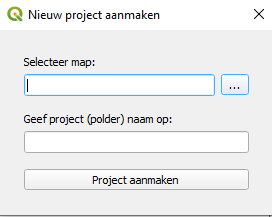
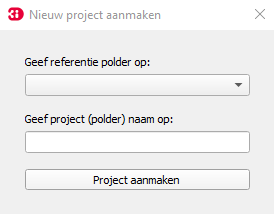
Gebruikershandleiding
Aanvullen gebruikershandleiding + toevoegen model settings

diff --git a/docs/md_files/usage.md b/docs/md_files/usage.md
@@ -95,10 +95,12 @@ Als er nog geen modelstaten en testberekeningen uitgevoerd zijn, kunnen de volge
 
 2. Hierna wordt het volgende scherm weergegeven:
 ![](../images/usage/load_modelsplitter_legend.PNG)
-De modelsplitter geeft de mogelijkheid om een aantal modelstaten te genereren, zoals in het vak met de ``1`` is te zien. De modelstaten voor de te genereren modellen staan automatisch in het rechtervak met daarboven ``Enabled``. In het rechtervak laat je de modelstaten staan waarvan je een model wil laten maken. Als je een bepaalde modelstaat niet nodig hebt, kun je deze naar het linkervak slepen met daarboven ``Disabled``.  
+Als er een Excel met model instellingen aanwezig is in het pad ``C:\Users\{gebruiker}\Documents\3Di\polder_Bart\02_schematisation``, dan zullen een aantal opties tevoorschijn komen (zoals in vak 1 is te zien). Als er nog geen Excel aanwezig is in het voorgenoemde pad, klik dan [hier](needed_data.md#model-instellingen) om de opbouw van de Excel te bekijken. De modelsplitter geeft de mogelijkheid om een aantal modelstaten te genereren, zoals in het vak met de ``1`` is te zien. De modelstaten voor de te genereren modellen staan automatisch in het rechtervak met daarboven ``Enabled``. In het rechtervak laat je de modelstaten staan waarvan je een model wil laten maken. Als je een bepaalde modelstaat niet nodig hebt, kun je deze naar het linkervak slepen met daarboven ``Disabled``.  
 3. Druk op ``Run: Model Splitter`` (2) om de modelsta(a)t(en) die onder ``Enabled`` staan te genereren
 4. Geef een ``Commit message`` mee (3)
 5. Upload de modelsta(a)t(en) door op ``Upload modelversion(s)`` te klikken (4)
+
+`{gebruiker}` is de naam van de Windows-gebruiker.
 
 ## 6. Berekeningen uitvoeren
 Nadat stap 5 is uitgevoerd, kunnen (test)berekeningen uitgevoerd gaan worden. Hieronder wordt toegelicht hoe een (test)bereking gestart kan worden:
@@ -113,13 +115,14 @@ Nadat stap 5 is uitgevoerd, kunnen (test)berekeningen uitgevoerd gaan worden. Hi
 5. Loop vervolgens stap voor stap de volgende punten af:
 
    1. ``Login with API keys``: voer hier de Lizard en 3Di API keys in
-   2. ``Search for schematisation on 3Di``: typ de naam van het model in en klik vervolgens op ``Search``
+   2. ``Search for schematisation on 3Di``: typ de naam van het model in waar je een berekening mee wil maken en klik vervolgens op ``Search``
    3. ``Select schematisation and model``: kies hier de modelstaat onder ``Schematisation`` en kies bij ``Revision`` voor de door te rekenen revisie. Het ``3Di model`` wordt automatisch ingevoerd, waarna bij ``Organisation`` gekozen kan worden voor de organisatie waar de simulatie gedraaid moet worden
    4. ``Select rain event``: maak hier een keuze voor de neerslagsituatie die bij de modelstaat hoort
    5. ``Select output folder/name``: kies hier de ``Sub folder`` waar de resultaten weggeschreven moeten worden 
    6. ``Select settings to include``: deze optie geeft de mogelijkheid om een aantal opties aan te vinken voor de naverwerking van de resultaten 
    ##### NOG UITLEGGEN GEVEN WAT DE PROCESSING INHOUDEN?
-   7. ``Start simulation``: de simulatienaam wordt automatisch gegenereerd op basis van de schematisatie die gebruikt wordt. Om de berekening te kunnen starten, moet eerst een simulatie aangemaakt worden middels de ``Create simulation`` knop. ERROR STARTEN SIMULATIE, ZIE OOK LOGBOEK
+   7. ``Start simulation``: de simulatienaam wordt automatisch gegenereerd op basis van de schematisatie die gebruikt wordt. Om de berekening te kunnen starten, moet eerst een simulatie aangemaakt worden middels de ``Create simulation`` knop. 
+   ##### ERROR STARTEN SIMULATIE, ZIE OOK LOGBOEK
 
 ## 7. Resultaten downloaden
 Naast het starten van simulaties, is het downloaden van de resultaten van de (test)berekeningen mogelijk middels het notebook. Hieronder is toegelicht hoe dat in zijn werk gaat:
@@ -150,9 +153,7 @@ De plugin heeft de mogelijkheid om een aantal testen voor het model en de testbe
 
 ### Sqlite checks 
 ##### NAAMGEVING STAAT DOOR ELKAAR HEEN? Ene keer sqlite checks andere keer sqlite testen
-De sqlite tests zijn bedoeld om het model te controleren op (potentiële) fouten in de data en deze te corrigeren waar nodig. Na de sqlite tests is het model klaar om op te bouwen en om de 0d1d toets te draaien (zie 
-[0d1d toets/Hydraulische toets](tests_documentation.md#1d2d-tests)). Voor de inhoudelijke uitleg van de tests, zie:
-[Sqlite tests](tests_documentation.md#sqlite-tests)
+De sqlite tests zijn bedoeld om het model te controleren op (potentiële) fouten in de data en deze te corrigeren waar nodig. Na de sqlite tests is het model klaar om op te bouwen en om de 0d1d toets te draaien (zie [0d1d toets/Hydraulische toets](tests_documentation.md#1d2d-tests)). Voor de inhoudelijke uitleg van de tests, zie:[Sqlite tests](tests_documentation.md#sqlite-tests)
 
 ### 0d1d tests
 De ```0d1d tests``` zijn bedoeld om de resultaten van de [0d1d toets/Hydraulische toets](tests_documentation.md#0d1d-testshydraulische-toets) te analyseren.
@@ -180,26 +181,37 @@ Volg onderstaande werkwijze als je het model vanaf de 'grond' gaat opbouwen (opt
 6. [Bank levels](#6-bank-levels-test)
 7. [1d2d tests](#7-1d2d-tests)
 
-## 1. Polder selecteren
+## 1. Modellen folder selecteren
+Voordat een nieuw project aangemaakt kan worden, moet een modellen folder gekozen worden. Op deze locatie wordt alle data in het vervolg opgeslagen. Hieronder is te zien op welke plek de modellen folder (1) zich bevindt:
 
-Selecteer een project map (zie [Standaard project indeling](tests_documentation.md#indeling-project-map) voor uitleg over de standaard indeling voor een project). Het is handig maar niet noodzakelijk om een project volgens de standaard indeling in te richten. De meeste functionaliteit van de plugin is alleen beschikbaar wanneer een project is geselecteerd.
+![](../images/usage/new_project.PNG)
+
+Kies een locatie in de verkenner waar alles opgeslagen gaat worden (raadzaam om een lokale map te kiezen). Dit kan bijvoorbeeld in de map `C:\Users\{gebruiker}\Documents\3Di`. Je kunt ook een nieuwe map in de verkenner (locatie staat vrij, maar raadzaam om lokaal te werken) aanmaken. 
+
+`{gebruiker}` is de naam van de Windows-gebruiker.
+
+Kies de locatie van de hierboven aangemaakte map om ervoor te zorgen dat ``Nieuw project aanmaken`` (2) geactiveerd wordt.
+
+Selecteer een project map (zie [Standaard project indeling](tests_documentation.md#indeling-project-map) voor uitleg over de standaard indeling voor een project). Het is handig maar niet noodzakelijk om een project volgens de standaard indeling in te richten. De meeste functionaliteit van de plugin is alleen beschikbaar wanneer een project is geselecteerd. 
+##### Dit gebeurt tegenwoordig automatisch in stap 2?
 
 ## 2. Nieuw project aanmaken
 
-Wanneer je op deze knop klikt, opent zich een nieuw venster:
+Wanneer je op ``Nieuw project aanmaken`` (2) klikt, opent zich een nieuw venster:
 
 ![](../images/usage/new_project_setup_legend.PNG)
 
-Selecteer een map om het nieuwe project in aan te maken (veld 1). Geef het nieuwe project een naam (de conventie is om het project de naam van het gebied te geven, waar het model een weergave van is) in veld 2.
+Hier kun je een referentie polder (1) opgeven als je die hebt. Het is niet noodzakelijk om deze op te geven. Geef de schematisatie die je gaat aanmaken een naam (2). 
 
-Wanneer je op 'Project aanmaken' klikt wordt er een lege mappenstructuur aangemaakt volgens de standaard projectindeling 
-(zie [project indeling](tests_documentation.md#indeling-project-map)). In de verschillende mappen worden ```readme``` files 
-aangemaakt waarin staat welke files in welke map wordt gezocht.
+Wanneer je op ``Project aanmaken`` klikt, wordt er een lege mappenstructuur aangemaakt volgens de standaard projectindeling (zie [project indeling](tests_documentation.md#indeling-project-map)). In de verschillende mappen worden ```readme``` files aangemaakt waarin staat welke files in welke map wordt gezocht.
 
 Het resultaat ziet er als volgt uit:
 
 ![](../images/usage/new_project_created.PNG)
 
+Volg hierna de stappen die [hier](#4-inladen-lagen) zijn toegelicht.  
+
+##### Onderstaande stap niet meer actueel?
 ## 3. Modelstaat aanpassen
 
 Wanneer je op deze knop klikt open zich een nieuw venster:
@@ -277,8 +289,7 @@ De test resultaten worden ook als ```.csv``` files in de gekozen ```Output map``
 
 ![](../images/usage/0d1d_tests_tab_legend.png)
 
-De ```0d1d tests``` zijn bedoeld om de resultaten van de 
-[0d1d toets/Hydraulische toets](tests_documentation.md#0d1d-testshydraulische-toets) te analyseren.
+De ```0d1d tests``` zijn bedoeld om de resultaten van de [0d1d toets/Hydraulische toets](tests_documentation.md#0d1d-testshydraulische-toets) te analyseren.
 
 1. Selecteer 3Di resultaten map: map waarin de 0d1d/hydraulic 3Di test resultaten per revisie staan opgeslagen
    
@@ -288,20 +299,16 @@ De ```0d1d tests``` zijn bedoeld om de resultaten van de
 3. Toont de geselecteerde revisie
 4. Selecteer map om resultaten in op te slaan
 
-Wanneer je op 'Begin tests' klikt word je gevraagd het 3Di scenario te bevestigen. Het scenario moet overeenkomen met 
-het 0d1d toets/hydraulische toets scenario om geldige resultaten te genereren. Als het scenario bevestigd is, worden de 
-tests gestart.
+Wanneer je op 'Begin tests' klikt word je gevraagd het 3Di scenario te bevestigen. Het scenario moet overeenkomen met het 0d1d toets/hydraulische toets scenario om geldige resultaten te genereren. Als het scenario bevestigd is, worden de tests gestart.
 
 ![](../images/usage/0d1d_tests_confirm.PNG)
+##### Verkeerde afbeelding?
 
 Resultaten van de tests worden als lagen toegevoegd aan ```QGIS```:
 
 ![](../images/usage/0d1d_tests_map_results.PNG)
 
-De bronnen voor deze lagen zijn ```geopackages (.gpkg)```. Deze files worden automatisch aangemaakt en opgeslagen in de 
-gekozen ```Output map```, in de map met de naam van de geselecteerde ```revisie```, in de ```Layers``` submap. De test 
-resultaten worden ook als ```.csv``` files in de gekozen ```Output map```, in de map met de naam van de geselecteerde 
-```revisie```, in de ```Logs``` submap.
+De bronnen voor deze lagen zijn ```geopackages (.gpkg)```. Deze files worden automatisch aangemaakt en opgeslagen in de gekozen ```Output map```, in de map met de naam van de geselecteerde ```revisie```, in de ```Layers``` submap. De test resultaten worden ook als ```.csv``` files in de gekozen ```Output map```, in de map met de naam van de geselecteerde ```revisie```, in de ```Logs``` submap.
 
 ## 6. Bank levels test
 
@@ -347,28 +354,55 @@ De ```1d2d tests``` zijn bedoeld om de resultaten van de [1d2d toets](tests_docu
 
 1. Selecteer 3Di resultaten map: map waarin de 0d1d/hydraulic 3Di test resultaten per revisie staan opgeslagen
    
-2. Selecteer 3Di revisie: format is normaal gesproken {polder name}{revision number}{type of test} (map die 
-   ```.nc``` en ```.h5``` files bevat).
+2. Selecteer 3Di revisie: format is normaal gesproken {polder name}{revision number}{type of test} (map die ```.nc``` en ```.h5``` files bevat).
    
 3. Toont de geselecteerde revisie
 4. Selecteer DEM raster (```.tif```) 
 5. Selecteer model (```.sqlite```)
 6. Selecteer map om resultaten in op te slaan
 
-Wanneer je op 'Begin tests' klikt word je gevraagd het 3Di scenario te bevestigen. Het scenario moet overeenkomen met 
-het 1d2d toets scenario om geldige resultaten te genereren. Als het scenario bevestigd is worden de 
-tests gestart.
+Wanneer je op 'Begin tests' klikt word je gevraagd het 3Di scenario te bevestigen. Het scenario moet overeenkomen met het 1d2d toets scenario om geldige resultaten te genereren. Als het scenario bevestigd is worden de tests gestart.
 
 ![](../images/usage/1d2d_tests_confirm.PNG)
+##### Verkeerde afbeelding?
 
 Resultaten van de tests worden als lagen toegevoegd aan ```QGIS```:
 
 ![](../images/usage/1d2d_tests_layer_group.PNG)
 
-De bronnen voor deze lagen zijn ```geopackages (.gpkg)```. Deze files worden automatisch aangemaakt en opgeslagen in de 
-gekozen ```Output map```, in de map met de naam van de geselecteerde ```revisie```, in de ```Layers``` submap. De test 
-resultaten worden ook als ```.csv``` files in de gekozen ```Output map```, in de map met de naam van de geselecteerde 
-```revisie```, in de ```Logs``` submap.
+De bronnen voor deze lagen zijn ```geopackages (.gpkg)```. Deze files worden automatisch aangemaakt en opgeslagen in de gekozen ```Output map```, in de map met de naam van de geselecteerde ```revisie```, in de ```Layers``` submap. De test resultaten worden ook als ```.csv``` files in de gekozen ```Output map```, in de map met de naam van de geselecteerde ```revisie```, in de ```Logs``` submap.
+
+## Klimaatsommen
+Het klimaat verandert al een aantal jaar en de gevolgen daarvan zijn merkbaar. Onder andere in de vorm van hevigere (piek) en/of langdurige (blok) neerslagsituaties. Om de gevolgen van deze neerslagevenementen in beeld te brengen, worden een aantal scenario's met verschillende herhalingstijden doorgerekend. De drie herhalingstijden die gesimuleerd kunnen worden zijn:
+
+1. T10 (neerslagsituatie die zich statistisch gezien 1x in de 10 jaar voordoet)
+2. T100 (neerslagsituatie die zich statistisch gezien 1x in de 100 jaar voordoet)
+3. T1000 (neerslagsituatie die zich statistisch gezien 1x in de 10 jaar voordoet)
+
+Voor deze herhalingstijden zijn ook nog twee verschillende neerslagduren mogelijk:
+
+1. Piek: hevige neerslagsituatie die in 2 uur valt
+2. Blok: langdurige neerslagsituatie met een lage neerslagintensiteit die 48 uur duurt 
+
+In totaal zijn er zes scenario's:
+
+1. Opbouw T10 blok bui: 
+![](../images/usage/T10_blok.PNG)
+
+2. Opbouw T100 blok bui: 
+![](../images/usage/T100_blok.PNG)
+
+3. Opbouw T1000 blok bui: 
+![](../images/usage/T1000_blok.PNG)
+
+4. Opbouw T10 piek bui: 
+![](../images/usage/T10_piek.PNG)
+
+5. Opbouw T100 piek bui: 
+![](../images/usage/T100_piek.PNG)
+
+6. Opbouw T1000 piek bui: 
+![](../images/usage/T1000_piek.PNG)
 
 ## Bekende problemen
 ### Oude sqlite error

diff --git a/docs/md_files/needed_data.md b/docs/md_files/needed_data.md
@@ -1,46 +1,35 @@
 # Bron data
 
-Hieronder vind je een beschrijving van alle brondata die wordt gebruikt voor de tests in de HHNK Toolbox
+Hieronder vind je een beschrijving van alle brondata die wordt gebruikt voor de tests in de HHNK Toolbox. Daarnaast is hier informatie te vinden over model instellingen.
 
 1. Model
 
-   Het model bevat de meeste informatie over de polder, zoals welke watergangen en kunstwerken zich in het gebied 
-   bevinden. Als er, bij het aanpassen van de modelstaat, backups worden aangemaakt worden die toegevoegd aan het 
-   model.
+   Het model bevat de meeste informatie over de polder, zoals welke watergangen en kunstwerken zich in het gebied bevinden. Als er, bij het aanpassen van de modelstaat, backups worden aangemaakt worden die toegevoegd aan het model.
 
 
 2. DAMO
 
-   De ```DAMO``` database is de gestandaardiseerde informatiebron waarvan de Waterschappen gebruik maken. De data uit 
-   de ```DAMO``` die gaat over het gebied dat het model beslaat, is opgeslagen in het ```DAMO.gdb``` file. Het model is 
-   in de meeste gevallen opgebouwd vanuit deze database.
+   De ```DAMO``` database is de gestandaardiseerde informatiebron waarvan de Waterschappen gebruik maken. De data uit de ```DAMO``` die gaat over het gebied dat het model beslaat, is opgeslagen in het ```DAMO.gdb``` file. Het model is in de meeste gevallen opgebouwd vanuit deze database.
    
-   Gegevens uit de ```DAMO.gdb``` worden gebruikt in verschillende tests die er op zijn gericht de brongegevens te
-   vergelijken met wat er in het model zit. De ```DAMO.gdb``` worden gebruikt in onderstaande tests:
+   Gegevens uit de ```DAMO.gdb``` worden gebruikt in verschillende tests die er op zijn gericht de brongegevens te vergelijken met wat er in het model zit. De ```DAMO.gdb``` worden gebruikt in onderstaande tests:
    
    * ```oppervlaktewater``` test om het oppervlaktewater in het model mee te 
-   vergelijken (de gebruikte laag uit de 
-   ```DAMO``` is ```Waterdeel```). 
+   vergelijken (de gebruikte laag uit de ```DAMO``` is ```Waterdeel```). 
    
-   * ```Bodemhoogte kunstwerken``` test om informatie over de hoogte op bepaalde punten van objecten toe te voegen 
-   (de gebruikte laag uit de ```DAMO.gdb``` is ```DuikerSifonHevel```). 
+   * ```Bodemhoogte kunstwerken``` test om informatie over de hoogte op bepaalde punten van objecten toe te voegen (de gebruikte laag uit de ```DAMO.gdb``` is ```DuikerSifonHevel```). 
    
    Beide tests maken deel uit van de ```Sqlite tests```
 
 
 3. HDB
    
-   De ```HDB``` database (```.gdb```) bevat aanvullende informatie over het gebied dat het model representeert. Het 
-   gaat hier om informatie die niet in de ```DAMO``` kan worden opgeslagen maar die wel relevant is voor hydrologische 
-   analyse. De ```HDB``` wordt gebruikt in de ```gestuurde kunstwerken``` test om informatie toe te voegen over de 
-   kunstwerken, zoals de object code, het streefpeil en de minimale en maximale kruinhoogtes. De gebruikte laag is (
+   De ```HDB``` database (```.gdb```) bevat aanvullende informatie over het gebied dat het model representeert. Het gaat hier om informatie die niet in de ```DAMO``` kan worden opgeslagen maar die wel relevant is voor hydrologische analyse. De ```HDB``` wordt gebruikt in de ```gestuurde kunstwerken``` test om informatie toe te voegen over de kunstwerken, zoals de object code, het streefpeil en de minimale en maximale kruinhoogtes. De gebruikte laag is (
    ```Sturing_3Di```).
    
    
 4. 3Di resultaten
 
-   De 3Di resultaten worden gebruikt in de ```0d1d tests```, ```bank level tests``` en ```1d2d test```. De resultaten 
-   bevatten informatie over het gedrag van een model op verschillende tijdstappen tijdens het gesimuleerde scenario.
+   De 3Di resultaten worden gebruikt in de ```0d1d tests```, ```bank level tests``` en ```1d2d test```. De resultaten bevatten informatie over het gedrag van een model op verschillende tijdstappen tijdens het gesimuleerde scenario.
    
 
 5. DEM
@@ -50,27 +39,37 @@ Hieronder vind je een beschrijving van alle brondata die wordt gebruikt voor de 
 
 6. Polder shapefile
    
-   De polder shapefile (```.shp```) bevat informatie over de grootte van het gebied waarvan het model een representatie 
-   is. Het wordt gebruikt in de ```ondoorlatend oppervlak``` test (```sqlite tests```) om te bepalen of het ondoorlatend 
-   oppervlak in het model redelijk is ten opzichte van de grootte van het gehele gebied.
+   De polder shapefile (```.shp```) bevat informatie over de grootte van het gebied waarvan het model een representatie is. Het wordt gebruikt in de ```ondoorlatend oppervlak``` test (```sqlite tests```) om te bepalen of het ondoorlatend oppervlak in het model redelijk is ten opzichte van de grootte van het gehele gebied.
 
 
 7. Datachecker output
    
-   De output van de datachecker bevat veel gegevens die overeenkomen met ```DAMO``` aangevuld met gecombineerde en 
-   gecontroleerde gegevens. Deze gegevens worden gebruikt in de volgende tests:
+   De output van de datachecker bevat veel gegevens die overeenkomen met ```DAMO``` aangevuld met gecombineerde en gecontroleerde gegevens. Deze gegevens worden gebruikt in de volgende tests:
    
-   * ```ontwateringsdiepte``` test om de waterstanden van de verschillende peilgebieden te bepalen (de gebruikte laag is 
-   ```fixeddrainagelevelarea```). 
+   * ```ontwateringsdiepte``` test om de waterstanden van de verschillende peilgebieden te bepalen (de gebruikte laag is ```fixeddrainagelevelarea```). 
    
-   * ```oppervlaktewater``` test om het oppervlaktewater te berekenen voor de verschillende peilgebieden (de 
-   gebruikte laag is ```fixeddrainagelevelarea```). 
+   * ```oppervlaktewater``` test om het oppervlaktewater te berekenen voor de verschillende peilgebieden (de gebruikte laag is ```fixeddrainagelevelarea```). 
    
-   * ```Bodemhoogte kunstwerken``` test om informatie over aannames (waar van toepassing) toe te voegen aan 
-   kunstwerken. De laag die daarvoor wordt gebruikt is ```culvert```.
+   * ```Bodemhoogte kunstwerken``` test om informatie over aannames (waar van toepassing) toe te voegen aan kunstwerken. De laag die daarvoor wordt gebruikt is ```culvert```.
    
 8. Channel surface from profiles
    
-   De channel surface from profiles shapefile (```.shp```) bevat informatie over de breedte van de watergangen. Deze 
-   informatie wordt gebruikt in de ```oppervlaktewater``` test om het totale oppervlaktewater van de watergangen in 
-   het model te berekenen. Dit bestand is een output van de modelbuilder.
+   De channel surface from profiles shapefile (```.shp```) bevat informatie over de breedte van de watergangen. Deze informatie wordt gebruikt in de ```oppervlaktewater``` test om het totale oppervlaktewater van de watergangen in het model te berekenen. Dit bestand is een output van de modelbuilder.
+
+### Model instellingen
+Om verschillende modelstaten te kunnen genereren zijn twee Excel documenten van belang. Deze Excel documenten moeten in de volgende map staan: ``C:\Users\{gebruiker}\Documents\3Di\polder_Bart\02_schematisation``
+
+`{gebruiker}` is de naam van de Windows-gebruiker.
+
+1. Model settings
+
+In de tabel hieronder zijn voor de verschillende modelstaten de benodigde gegevens te zien. Deze gegevens dienen in een Excel met de naam ``model_settings`` ingevoerd te worden, zodat ze in 3Di uitgelezen kunnen worden en de juiste invoerwaarden worden gebruikt. Op de plek waar ``Naam polder`` staat, komt de naam van polder, bijvoorbeeld ``callantsoog_0d1d_test``. Als er andere namen voor rasters worden gebruikt, kunnen deze uiteraard ingevoerd worden in de Excel, zolang ze corresponderen met de namen van de rasters die in ``C:\Users\{gebruiker}\Documents\3Di\polder_X\02_schematisation_00_basis_rasters`` (padnaam kan bij  gebruiker anders zijn) zijn opgeslagen. 
+
+![](../images/needed_data/model_settings.PNG)
+
+`{gebruiker}` is de naam van de Windows-gebruiker.
+
+2. Model settings default
+In de tabel hieronder zijn een aantal default instellingen voor de schematisatie weergegeven. Deze gegevens dienen in een Excel met de naam ``model_settings`` ingevoerd te worden, zodat ze in 3Di uitgelezen kunnen worden en de juiste invoerwaarden worden gebruikt.
+
+![](../images/needed_data/model_settings_default.PNG)
